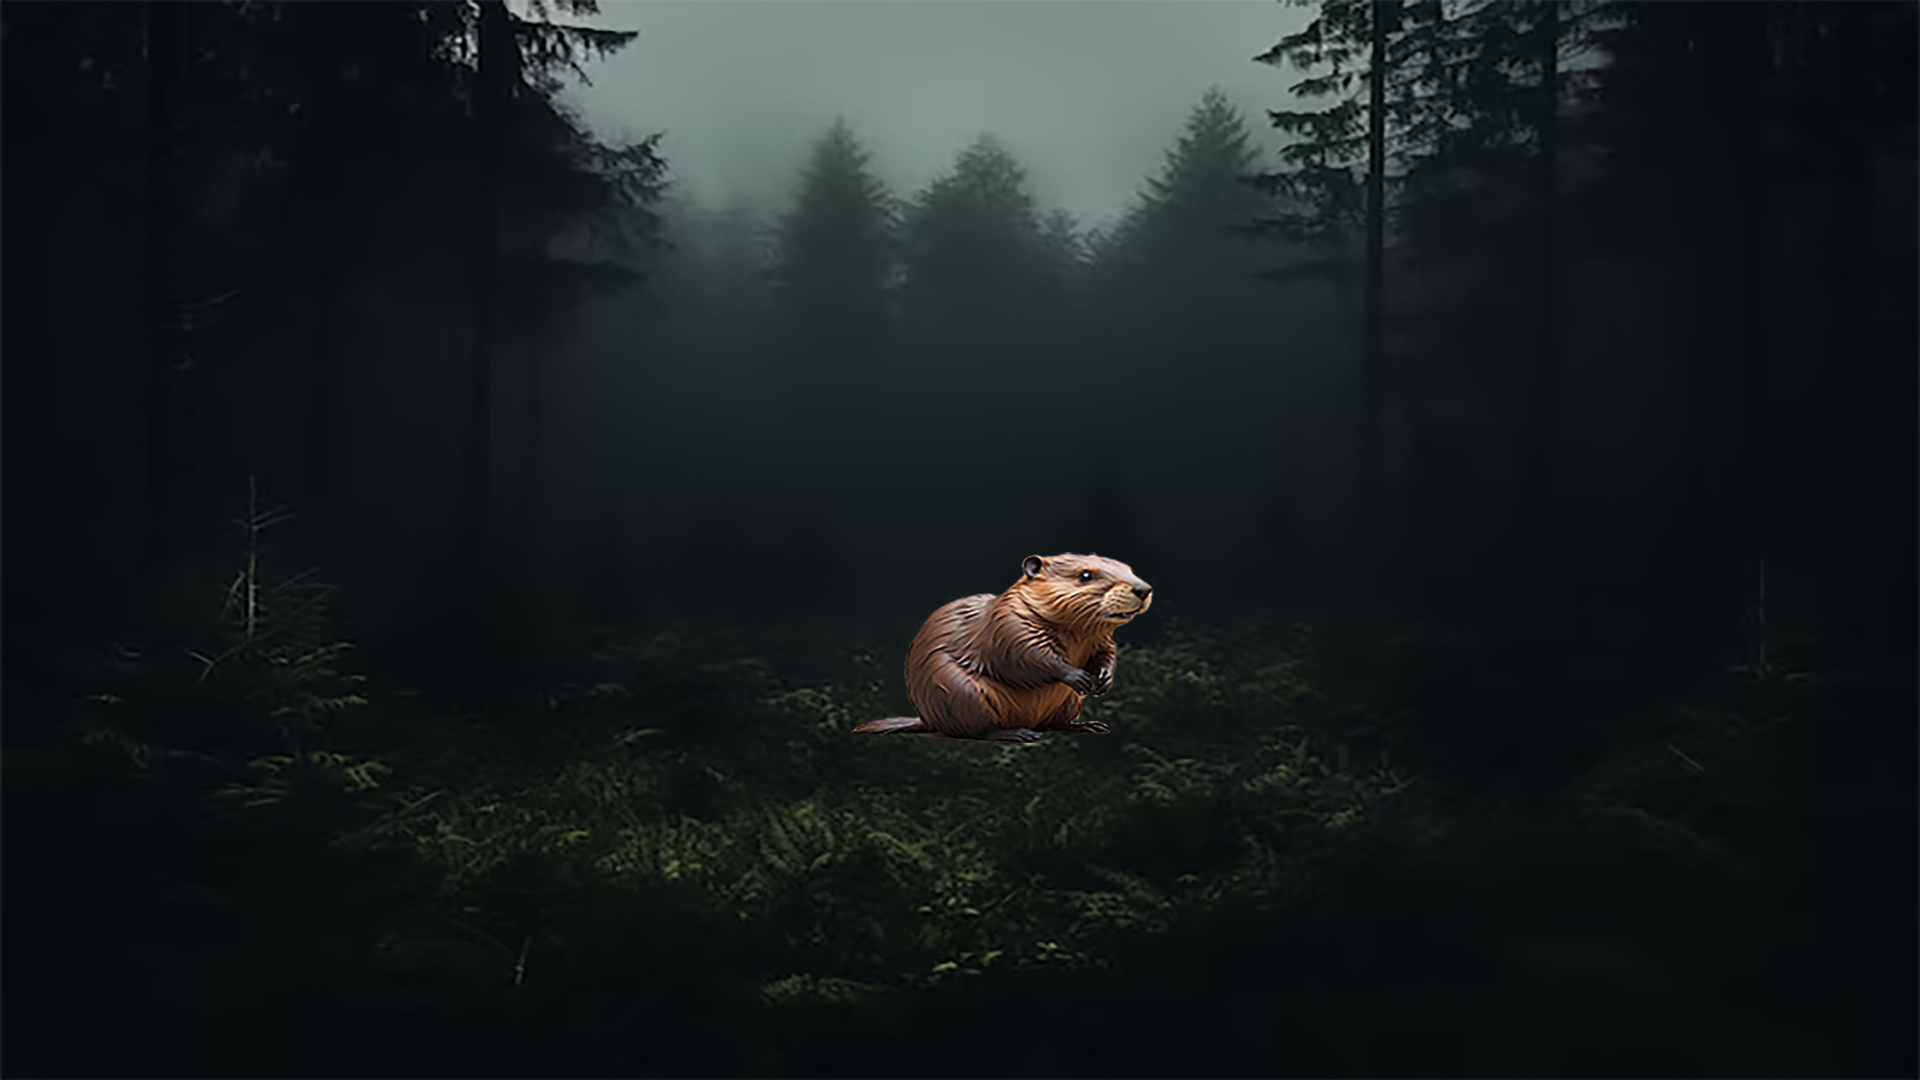
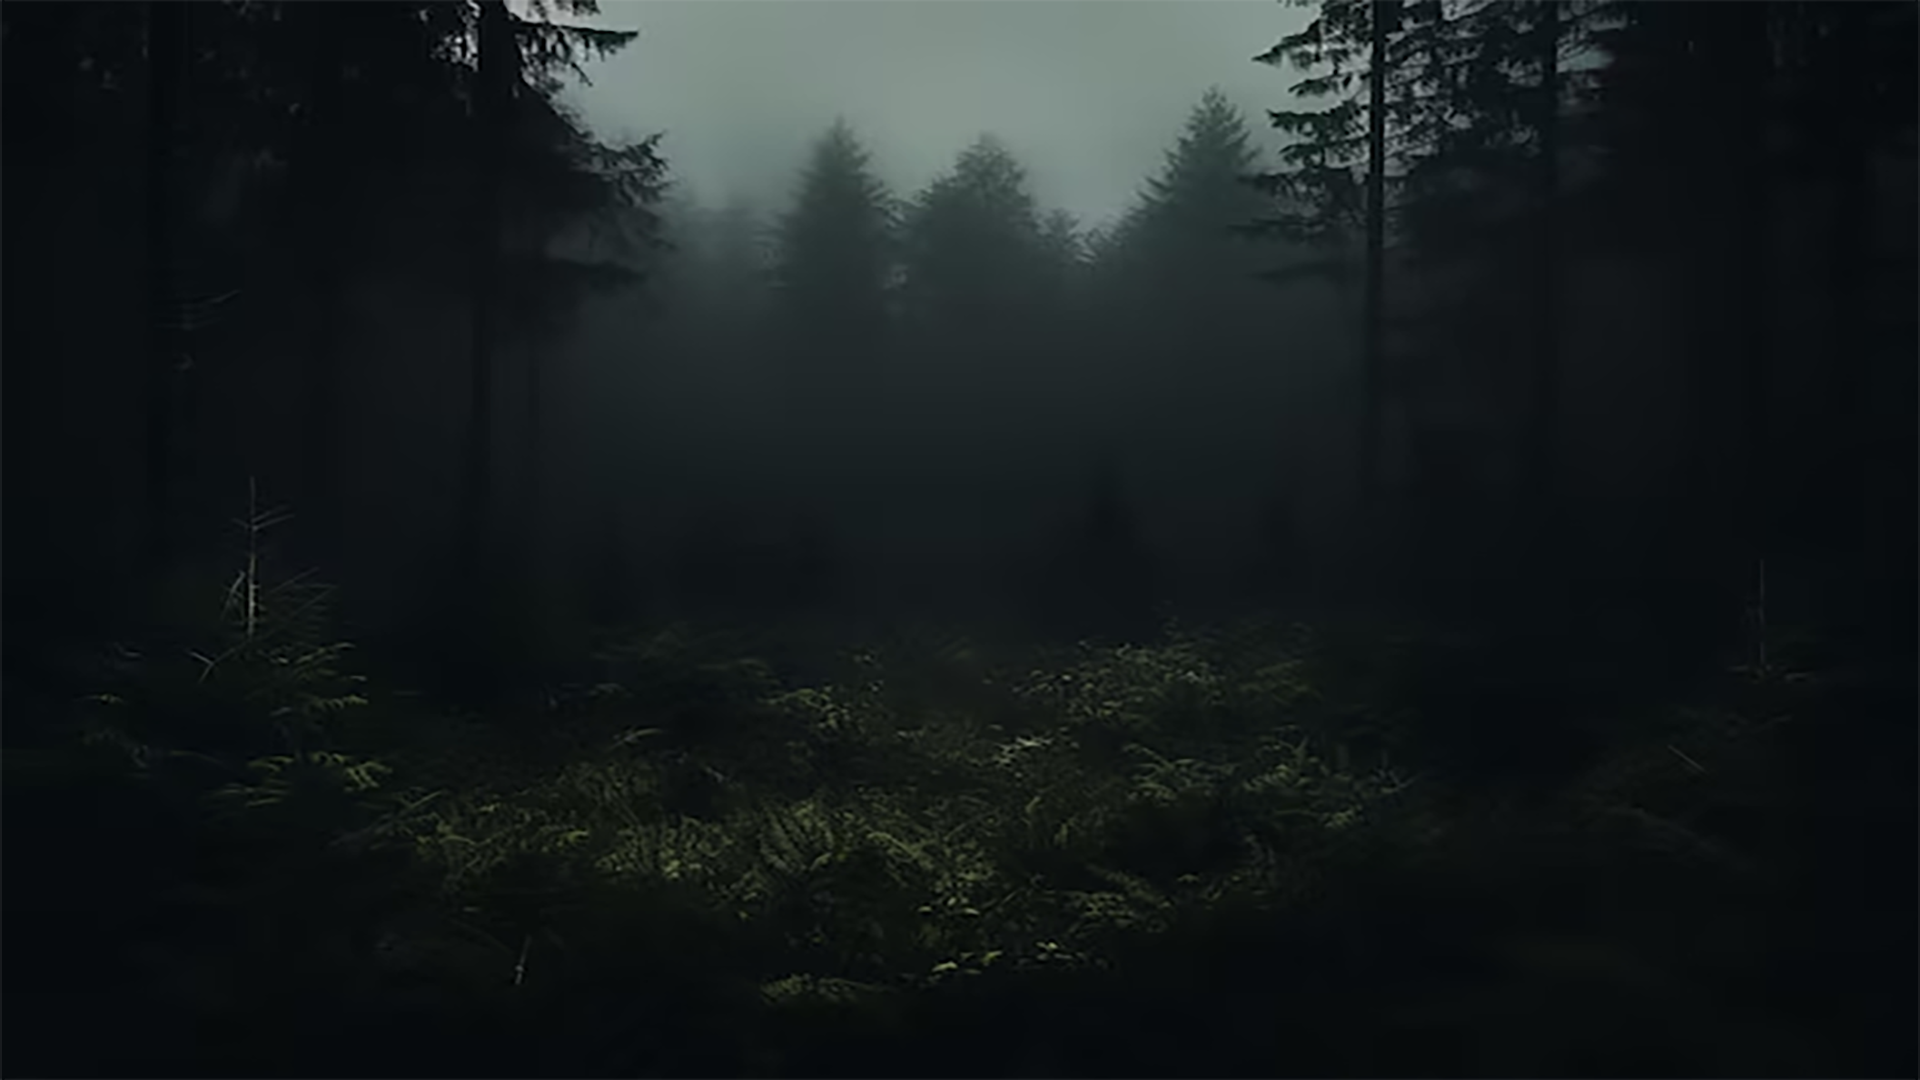
BG updated

Changed region(s): [[0.4375, 0.4889, 0.5938, 0.7028]]

diff --git a/src/components/Home/Home.module.css b/src/components/Home/Home.module.css
@@ -17,6 +17,11 @@ header {
   position: relative;
 }
 
+.centerbobr {
+  width: 250px;
+  margin-bottom: 3rem;
+}
+
 header::after {
   content: "";
   position: absolute;
@@ -36,7 +41,7 @@ header::after {
   justify-content: center;
   align-items: center;
   flex-direction: column;
-  padding-top: 42rem;
+  padding-top: 12rem;
   margin-left: 3rem;
 }
 
@@ -571,9 +576,6 @@ main {
 @media only screen and (max-width: 700px) {
   .joinBox {
     width: 95%;
-  }
-  .centerbox {
-    margin-left: 2rem;
   }
   .stackModal {
     margin: 0 !important;

diff --git a/src/components/Home/Home.jsx b/src/components/Home/Home.jsx
@@ -96,6 +96,7 @@ const Home = () => {
       <header>
         <div className={stl.centerbox}>
           <h1 className={stl.headertitle}>Solana's Friendliest Rodent</h1>
+          <img src="../Bober.png" alt="Bobr" className={stl.centerbobr} />
           <button
             className={stl.buyCta}
             onClick={() =>
